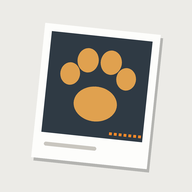
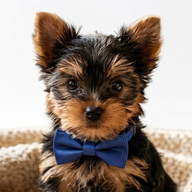
換成 Lucky 照片圖示
Claude-Session: https://claude.ai/code/session_01SUNtyFbBmkbr8aW8qLdr8Y

diff --git a/sw.js b/sw.js
@@ -1,5 +1,5 @@
 // Lucky 手冊 offline cache. Bump VERSION whenever index.html changes.
-const VERSION = "lucky-v1";
+const VERSION = "lucky-v2";
 const SHELL = ["./", "./index.html", "./manifest.webmanifest", "./icons/icon-192.png", "./icons/icon-512.png", "./icons/apple-touch-icon.png"];
 
 self.addEventListener("install", (e) => {
